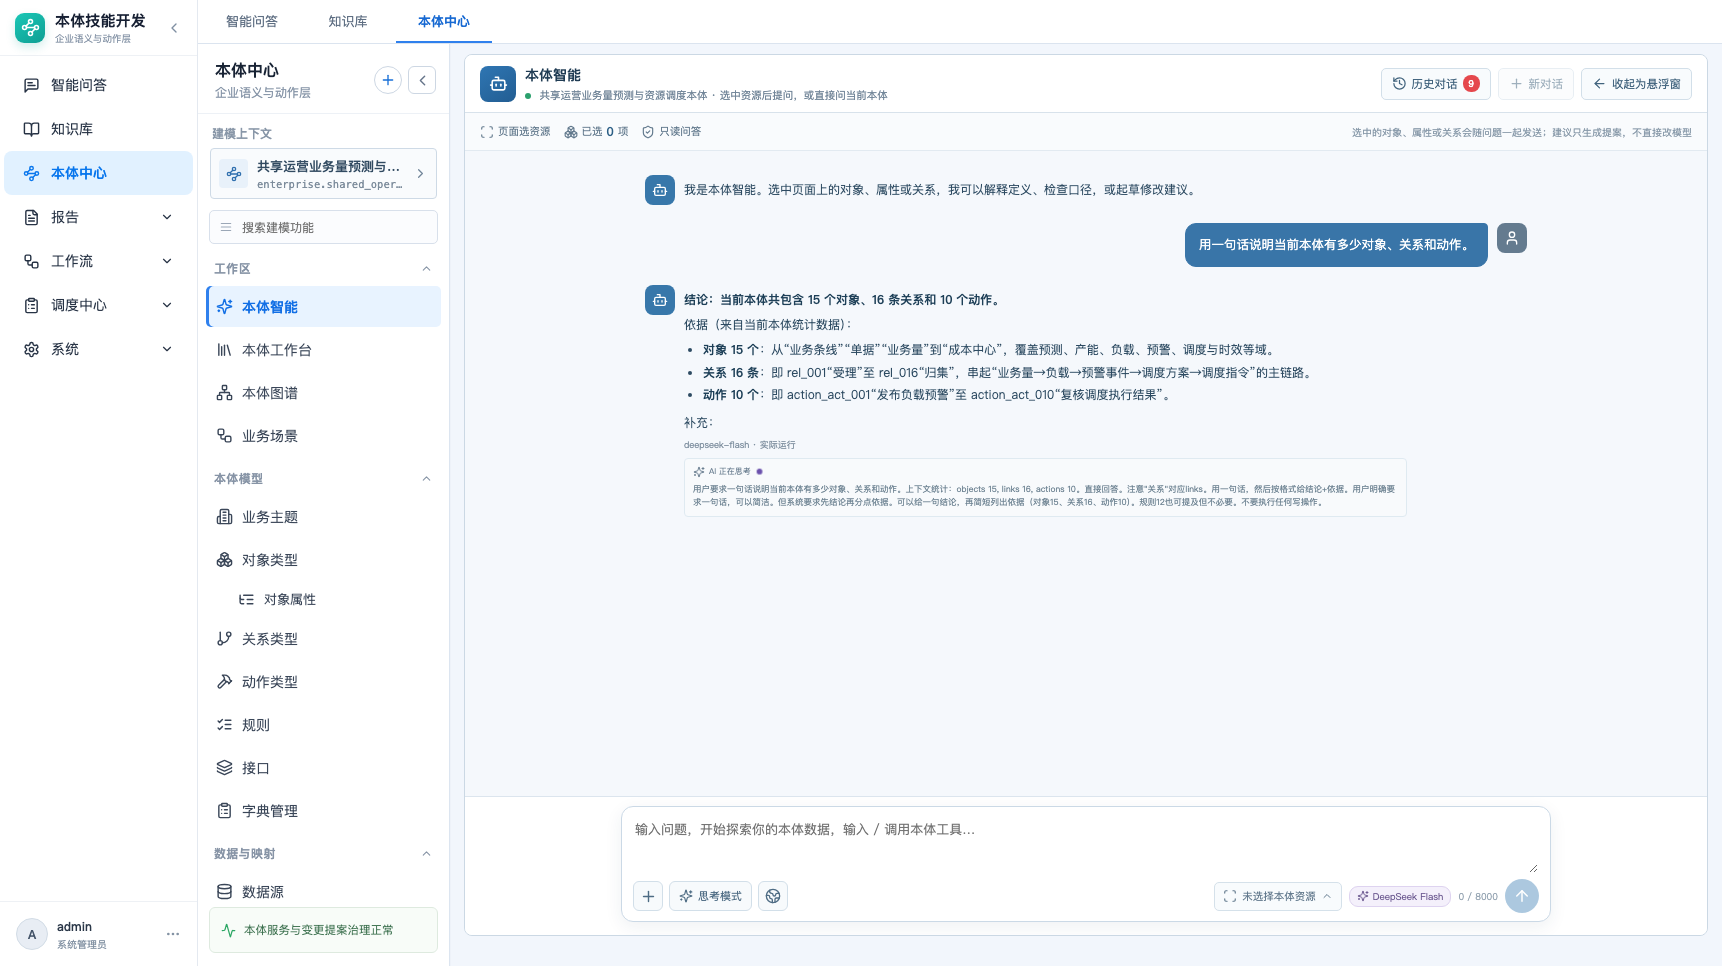
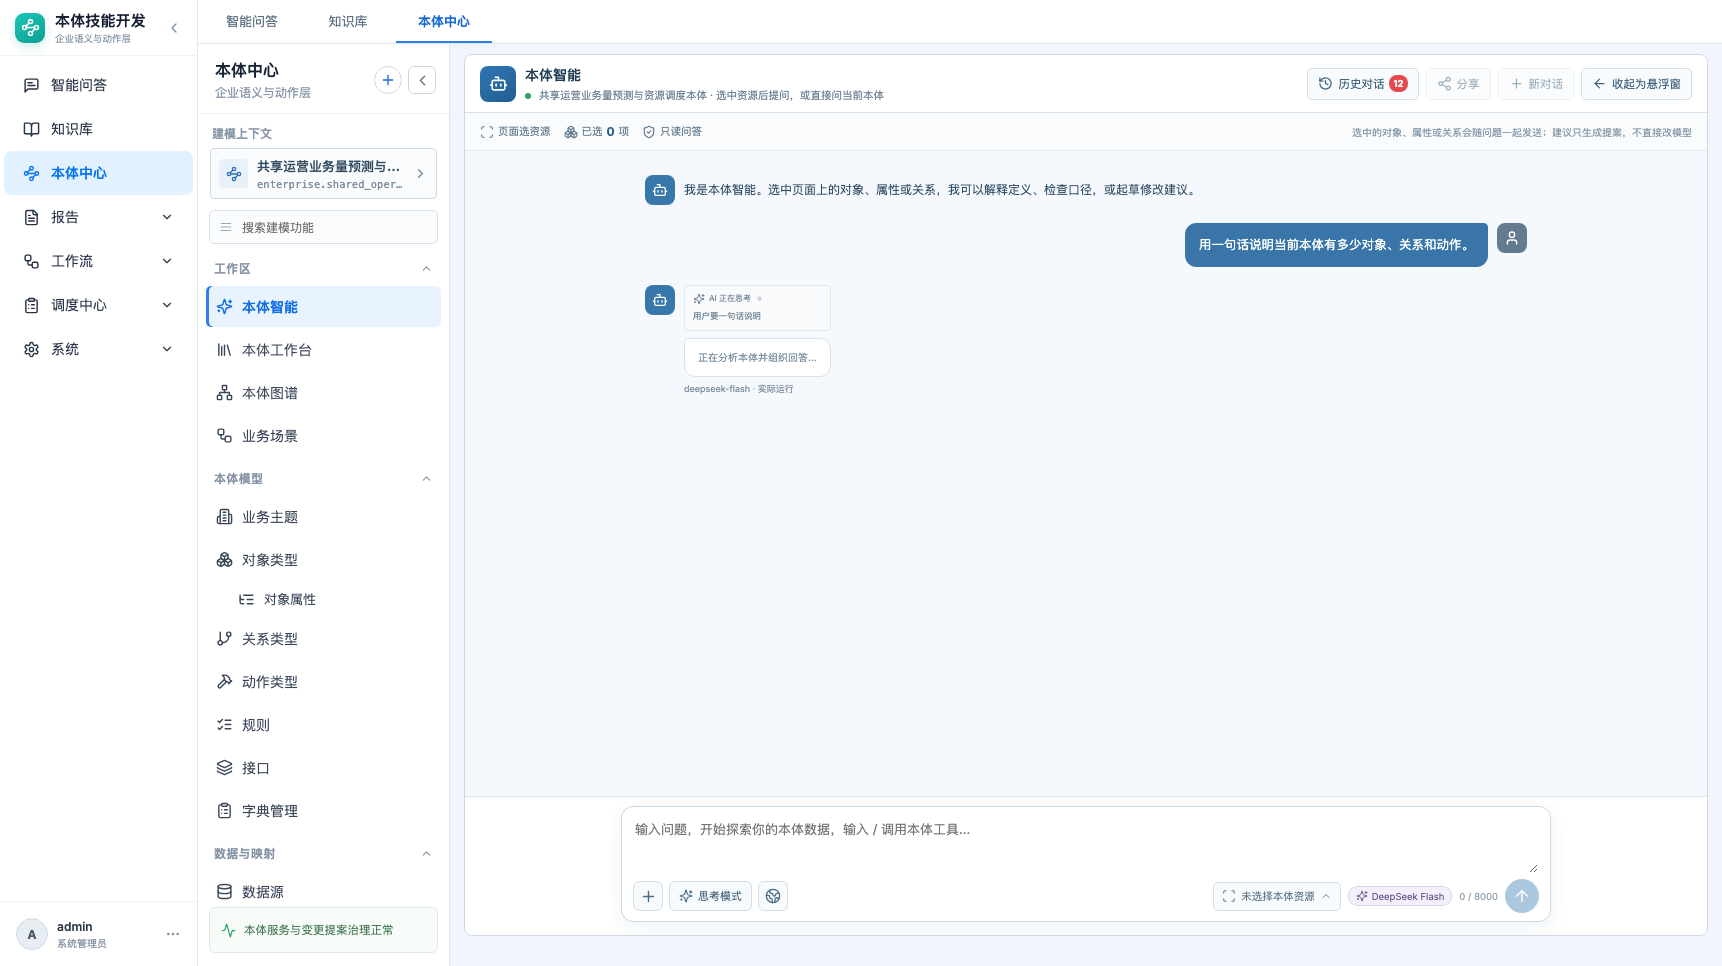
fix: collapse streamed reasoning when answer starts

diff --git a/frontend/src/assistant/AssistantPage.jsx b/frontend/src/assistant/AssistantPage.jsx
@@ -140,12 +140,12 @@ export default function AssistantPage() {
           <span className="agent-thread-avatar">{message.role === 'assistant' ? <Bot size={16} /> : <User size={16} />}</span>
           <div className="agent-thread-body">
             {message.resources?.length > 0 && <div className="agent-thread-resources">{message.resources.map((item, resourceIndex) => <span key={`${item.type}-${item.id}-${resourceIndex}`}><Boxes size={12} />{RESOURCE_TYPE_LABELS[item.type] || '资源'} · {item.label}</span>)}</div>}
+            {message.streaming && !message.text && message.reasoning && <div className="agent-live-thought"><header><Sparkles size={12} /> AI 正在思考 <i /></header><p>{message.reasoning}</p></div>}
+            {(!message.streaming || message.text) && message.reasoning && <details className="agent-thought"><summary><Sparkles size={12} /> AI 思考 <em>已完成 · 模型原始思考</em></summary><p>{message.reasoning}</p></details>}
             {message.role === 'assistant' ? <>{message.streaming && !message.text ? <p className="agent-stream-placeholder">正在分析本体并组织回答…</p> : <ModelAnswer text={message.text} />}</> : <p>{message.text}</p>}
             {(message.thinking_mode || message.web_search) && <div className="agent-thread-tags">{message.thinking_mode && <span><Sparkles size={11} /> 思考模式</span>}{message.web_search && <span><Globe2 size={11} /> 联网检索</span>}</div>}
             {message.trace?.length > 0 && <details className="agent-trace"><summary>查看本体工具轨迹 · {message.trace.length} 步</summary>{message.trace.map((step, traceIndex) => <span key={traceIndex}><em>{traceIndex + 1}</em><b>{step.label}</b><small>{step.result}</small><CheckCircle2 size={13} /></span>)}</details>}
             {message.runMode && <small className="agent-run-mode">{message.runMode === 'deepseek' ? `${message.model || MODEL_LABEL} · 实际运行` : '演示降级模式'}</small>}
-            {message.streaming && message.reasoning && <div className="agent-live-thought"><header><Sparkles size={12} /> AI 正在思考 <i /></header><p>{message.reasoning}</p></div>}
-            {!message.streaming && message.reasoning && <details className="agent-thought"><summary><Sparkles size={12} /> AI 思考 <em>模型原始思考内容</em></summary><p>{message.reasoning}</p></details>}
             {message.proposal && <small className="agent-run-mode">已生成动作提案，未执行</small>}
             {(message.scenarioDiscovery || message.scenario_discovery) && <ScenarioDiscoveryCard discovery={message.scenarioDiscovery || message.scenario_discovery} />}
           </div>

diff --git a/frontend/src/assistant/AssistantChat.jsx b/frontend/src/assistant/AssistantChat.jsx
@@ -27,6 +27,8 @@ export default function AssistantChat({ compact = false, showPicker = true }) {
         <i className="assistant-avatar">{message.role === 'assistant' ? <Bot size={15} /> : <User size={15} />}</i>
         <div className={`assistant-bubble ${message.error ? 'error' : ''}`}>
           {message.resources?.length > 0 && <div className="assistant-msg-resources"><small><Paperclip size={10} /> 随问题发送</small>{message.resources.map((item, resourceIndex) => <span key={`${item.type}-${item.id}-${resourceIndex}`}><i>{RESOURCE_TYPE_LABELS[item.type] || '资源'}</i><b title={item.parent ? `${item.label} · 所属 ${item.parent}` : item.label}>{item.label}</b></span>)}</div>}
+          {message.streaming && !message.text && message.reasoning && <div className="assistant-live-thought"><header><Sparkles size={11} /> AI 正在思考 <i /></header><p>{message.reasoning}</p></div>}
+          {(!message.streaming || message.text) && message.reasoning && <details className="assistant-thought"><summary><Sparkles size={11} /> AI 思考 <em>已完成</em></summary><p>{message.reasoning}</p></details>}
           {message.role === 'assistant' ? <>{message.streaming && !message.text ? <p className="assistant-stream-placeholder">正在分析本体并组织回答…</p> : <ModelAnswer text={message.text} />}</> : <p>{message.text}</p>}
           {message.trace?.length > 0 && <details className="assistant-trace">
             <summary>本体工具轨迹 · {message.trace.length} 步</summary>
@@ -37,8 +39,6 @@ export default function AssistantChat({ compact = false, showPicker = true }) {
             </div>)}
           </details>}
           {message.runMode && <small className="assistant-runmode">{message.runMode === 'deepseek' ? `${message.model || 'DeepSeek Flash'} 运行` : '演示降级模式'}</small>}
-          {message.streaming && message.reasoning && <div className="assistant-live-thought"><header><Sparkles size={11} /> AI 正在思考 <i /></header><p>{message.reasoning}</p></div>}
-          {!message.streaming && message.reasoning && <details className="assistant-thought"><summary><Sparkles size={11} /> AI 思考</summary><p>{message.reasoning}</p></details>}
           {(message.scenarioDiscovery || message.scenario_discovery) && <ScenarioDiscoveryCard discovery={message.scenarioDiscovery || message.scenario_discovery} />}
         </div>
       </article>)}

diff --git a/frontend/src/assistant/assistant.css b/frontend/src/assistant/assistant.css
@@ -587,3 +587,10 @@ body.ai-picking .vis-network, body.ai-picking .vis-network canvas { cursor: cros
 .conversation-share-loading { min-height:260px; display:flex; flex-direction:column; align-items:center; justify-content:center; gap:6px; color:#7b8e9e; }
 .conversation-share-loading strong { color:#4e6a7e; font-size:11px; }
 .conversation-share-loading span { font-size:9px; }
+
+/* DeepSeek 式顺序：思考在上，回答在下；回答开始后思考自动折叠 */
+.agent-live-thought, .assistant-live-thought { margin:0 0 7px; }
+.agent-thought, .assistant-thought { margin:0 0 7px; padding:0; border:1px solid #e2ebf2; border-radius:4px; background:#fbfdfe; }
+.agent-thought summary, .assistant-thought summary { padding:6px 8px; color:#61798b; }
+.agent-thought p, .assistant-thought p { margin:0; padding:0 8px 8px; border:0; background:transparent; }
+.agent-thought[open] summary, .assistant-thought[open] summary { border-bottom:1px dashed #e0e9f0; }

diff --git a/docs/prd/05-PRD-本体智能.md b/docs/prd/05-PRD-本体智能.md
@@ -429,9 +429,11 @@ error    → 模型失败原因
 
 界面行为：
 
+- 思考过程位于回答上方；
 - 生成过程中展开“AI 正在思考”，实时追加 reasoning；
 - 回答正文同步流式追加，使用 Markdown 轻量呈现；
-- 收到 done 后，将实时思考折叠为默认收起的“AI 思考”；
+- **收到第一条回答增量时，立即把实时思考折叠为默认收起的“AI 思考”**；
+- 最终完成后保持折叠状态；
 - 失败时保留已收到的内容并显示错误，不伪装成成功回答；
 - 历史会话恢复完整回答和思考内容。
 
@@ -744,7 +746,7 @@ error    → 模型失败原因
 | A37 | 回答下方可展开“AI 思考”，内容为模型 reasoning_content |
 | A38 | 刷新后历史对话仍保留回答与 AI 思考 |
 | A39 | 模型失败时显示演示降级，不把失败伪装成真实模型结果 |
-| A40 | 思考过程在生成中实时追加，done 后折叠为默认收起的“AI 思考” |
+| A40 | 思考过程位于回答上方，生成中实时追加，回答开始输出时立即折叠为“AI 思考” |
 | A41 | 浮窗最大化展示 85% 窗口且不离开当前页面路由 |
 | A42 | 大窗/小窗共用同一会话、资源、输入和滚动内容 |
 | A43 | 全屏和悬浮窗都能分享当前多轮对话为长图 |

diff --git a/README.md b/README.md
@@ -161,7 +161,7 @@ DEEPSEEK_BASE_URL="https://api.deepseek.com"
 DEEPSEEK_MODEL="deepseek-flash"
 ```
 
-当前原型调用 `https://api.deepseek.com/chat/completions` 的 `deepseek-flash`。本体智能使用真实模型回答；通过 `/agent/chat/stream` 流式返回 reasoning 和回答，生成中实时展开思考，完成后折叠为“AI 思考”，并随消息写入会话历史。浮窗最大化以 85% 窗口覆盖当前页面，不跳转菜单。密钥只存在本地 `.env` 或部署环境变量，不写入代码、数据库或提交包。未配置密钥时仍保留演示降级。
+当前原型调用 `https://api.deepseek.com/chat/completions` 的 `deepseek-flash`。本体智能使用真实模型回答；通过 `/agent/chat/stream` 流式返回 reasoning 和回答；思考位于回答上方，生成中实时展开，回答开始输出时自动折叠为“AI 思考”，并随消息写入会话历史。浮窗最大化以 85% 窗口覆盖当前页面，不跳转菜单。密钥只存在本地 `.env` 或部署环境变量，不写入代码、数据库或提交包。未配置密钥时仍保留演示降级。
 
 ## 6. 技术架构
 
